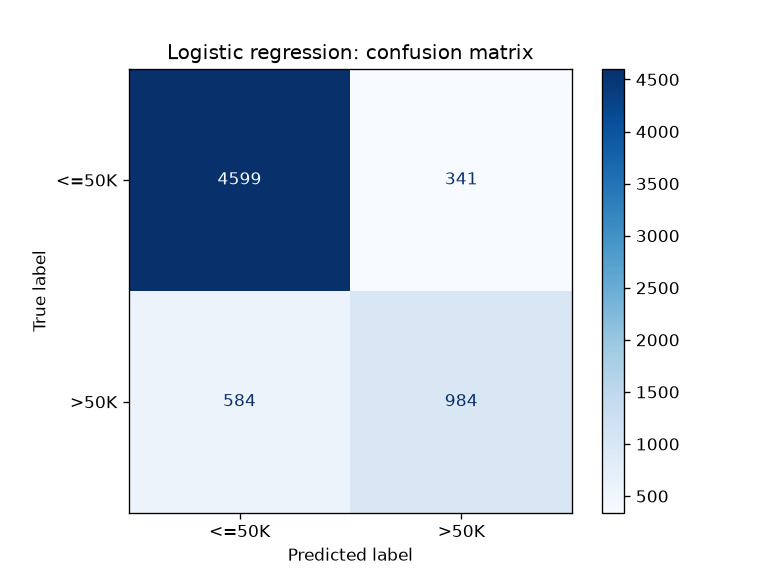
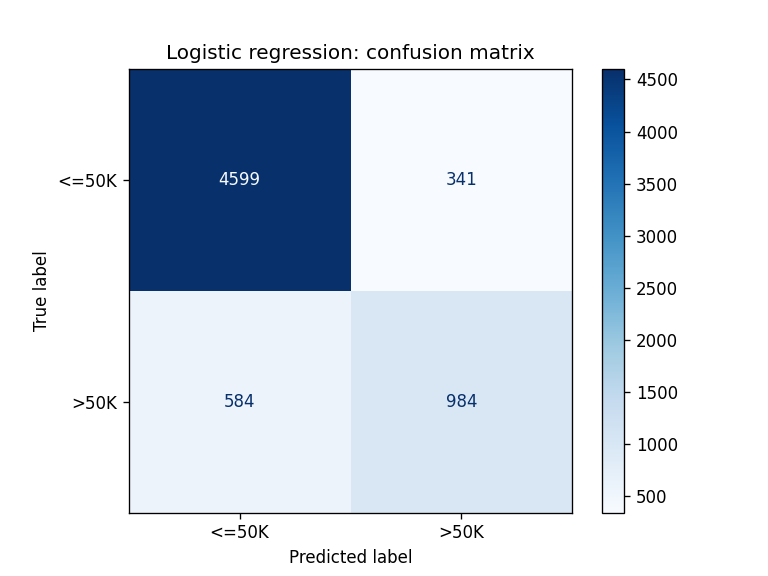
add more testing

diff --git a/tests/test_main.py b/tests/test_main.py
@@ -1,3 +1,11 @@
+"""Tests for src/main.py, grouped by pipeline step.
+
+Nothing here touches the network. `raw_file` is a 6-row sample in the exact format of the UCI
+file (leading spaces, '?' for missing, one duplicate row, a trailing blank line). `big_file`
+is a 40-row variant so the train/test split has enough rows for the model and system tests.
+"""
+
+import pandas as pd
 import pytest
 
 from src import main
@@ -21,11 +29,137 @@ def raw_file(tmp_path):
     return path
 
 
-def test_load_and_clean_agree_between_pandas_and_polars(raw_file):
-    df_pd, df_pl = main.load_pandas(raw_file), main.load_polars(raw_file)
-    assert len(main.clean_pandas(df_pd)) == len(main.clean_polars(df_pl)) == 5  # 6 rows, 1 duplicate
+@pytest.fixture
+def big_file(tmp_path):
+    """40 distinct rows: the 5 unique sample rows repeated with a different age each time."""
+    rows = [line for line in RAW.splitlines() if line][:5]
+    lines = [str(int(r.split(",")[0]) + i) + r[r.index(",") :] for i in range(8) for r in rows]
+    path = tmp_path / "adult_big.data"
+    path.write_text("\n".join(lines) + "\n\n")
+    return path
 
 
-def test_group_by_education(raw_file):
-    grouped = main.group_by_education_pandas(main.clean_pandas(main.load_pandas(raw_file)))
-    assert grouped.set_index("education").loc["HS-grad", "share_high_income"] == pytest.approx(0.5)
+@pytest.fixture
+def df_pd(raw_file):
+    return main.load_pandas(raw_file)
+
+
+@pytest.fixture
+def df_pl(raw_file):
+    return main.load_polars(raw_file)
+
+
+# 1. data loading
+def test_load_pandas_parses_raw_format(df_pd):
+    assert list(df_pd.columns) == main.COLS
+    assert df_pd.shape == (6, 15)
+    assert df_pd["income"].iloc[0] == "<=50K"  # leading space stripped
+    assert df_pd["workclass"].isna().sum() == 1  # '?' became NaN
+    assert df_pd["age"].dtype.kind == "i"
+
+
+def test_load_polars_matches_pandas(df_pd, df_pl):
+    assert df_pl.columns == main.COLS
+    assert df_pl.shape == df_pd.shape  # edge case: trailing blank line is not a row
+    assert df_pl["workclass"].null_count() == 1
+    assert df_pl["age"].to_list() == df_pd["age"].tolist()
+
+
+def test_download_data_uses_cache(raw_file):
+    # edge case: an existing file is returned as-is, the (invalid) url is never fetched
+    assert main.download_data(raw_file, url="http://invalid.invalid/x") == raw_file
+
+
+# 2. preprocessing
+def test_inspect_pandas_counts(df_pd):
+    assert main.inspect_pandas(df_pd, verbose=False) == {
+        "rows": 6, "columns": 15, "missing_values": 1, "duplicate_rows": 1
+    }  # fmt: skip
+
+
+def test_clean_removes_duplicates_in_both_libraries(df_pd, df_pl):
+    assert len(main.clean_pandas(df_pd)) == len(main.clean_polars(df_pl)) == 5
+
+
+def test_clean_is_idempotent(df_pd):
+    # edge case: cleaning already clean data changes nothing
+    once = main.clean_pandas(df_pd)
+    pd.testing.assert_frame_equal(main.clean_pandas(once), once)
+
+
+# 3. filtering and grouping
+def test_filter_overtime(df_pd, df_pl):
+    assert len(main.filter_overtime_pandas(df_pd)) == len(main.filter_overtime_polars(df_pl)) == 3
+    assert len(main.filter_overtime_pandas(df_pd, hours=49)) == 2
+    assert main.filter_overtime_pandas(df_pd, hours=99).empty  # edge case: nobody qualifies
+
+
+def test_group_by_education_pandas(df_pd):
+    grouped = main.group_by_education_pandas(main.clean_pandas(df_pd)).set_index("education")
+    assert grouped.loc["HS-grad", "count"] == 2
+    assert grouped.loc["HS-grad", "share_high_income"] == pytest.approx(0.5)
+    assert grouped.loc["Bachelors", "mean_capital_gain"] == pytest.approx(2174 / 3)
+    assert grouped["share_high_income"].is_monotonic_decreasing
+
+
+def test_group_by_education_polars_equals_pandas(df_pd, df_pl):
+    expected = main.group_by_education_pandas(main.clean_pandas(df_pd))
+    got = main.group_by_education_polars(main.clean_polars(df_pl)).to_pandas()
+    pd.testing.assert_frame_equal(
+        expected.sort_values("education").reset_index(drop=True),
+        got.sort_values("education").reset_index(drop=True),
+        check_dtype=False,
+    )
+
+
+# 4. machine learning
+def test_prepare_features_encodes_target(df_pd):
+    X, y = main.prepare_features(df_pd)
+    assert "income" not in X.columns
+    assert y.tolist() == [0, 0, 0, 1, 1, 1]
+
+
+def test_model_predicts_binary_labels(df_pd):
+    X, y = main.prepare_features(df_pd)
+    predictions = main.build_model().fit(X, y).predict(X)
+    assert len(predictions) == len(X) and set(predictions) <= {0, 1}
+
+
+def test_train_and_evaluate_reports_accuracy(big_file):
+    result = main.train_and_evaluate(main.load_pandas(big_file))
+    assert 0.0 <= result["accuracy"] <= 1.0
+    assert len(result["X_test"]) == 8  # 20 % of 40 rows
+    assert "precision" in result["report"]
+
+
+def test_model_handles_unseen_category(df_pd):
+    # edge case: a category absent from training must not crash prediction
+    X, y = main.prepare_features(df_pd)
+    model = main.build_model().fit(X, y)
+    unseen = X.head(1).assign(native_country="Atlantis")
+    assert model.predict(unseen)[0] in (0, 1)
+
+
+# 5. visualisation
+def test_plots_write_png_files(big_file, tmp_path):
+    df = main.load_pandas(big_file)
+    result = main.train_and_evaluate(df)
+    fig1 = main.plot_income_by_age(df, tmp_path / "a.png")
+    fig2 = main.plot_confusion_matrix(result["model"], result["X_test"], result["y_test"], tmp_path / "b.png")
+    assert fig1.stat().st_size > 0 and fig2.stat().st_size > 0
+
+
+# 7. benchmark
+def test_benchmark_table(raw_file):
+    table = main.benchmark(raw_file, scale=2, repeats=1)
+    assert list(table.columns) == ["operation", "pandas_ms", "polars_ms", "speedup"]
+    assert len(table) == 4 and (table["speedup"] > 0).all()
+
+
+# system test: the whole pipeline end to end
+def test_main_runs_end_to_end(big_file, tmp_path, capsys):
+    main.main(path=big_file, fig_dir=tmp_path / "figs")
+    out = capsys.readouterr().out
+    assert "logistic regression accuracy:" in out and "pandas vs polars" in out
+    assert (tmp_path / "figs" / "income_by_age.png").exists()
+    assert (tmp_path / "figs" / "confusion_matrix.png").exists()

diff --git a/src/main.py b/src/main.py
@@ -179,8 +179,8 @@ def benchmark(path=DATA_FILE, scale=50, repeats=5) -> pd.DataFrame:
     return out.round(1)
 
 
-def main() -> None:
-    path = download_data()
+def main(path=DATA_FILE, fig_dir=FIG_DIR) -> None:
+    path = download_data(path)
     df_pd = load_pandas(path)
     summary = inspect_pandas(df_pd)
     df_pd = clean_pandas(df_pd)
@@ -191,8 +191,8 @@ def main() -> None:
 
     result = train_and_evaluate(df_pd)
     print(f"\nlogistic regression accuracy: {result['accuracy']:.3f}\n{result['report']}")
-    print("saved", plot_income_by_age(df_pd))
-    print("saved", plot_confusion_matrix(result["model"], result["X_test"], result["y_test"]))
+    print("saved", plot_income_by_age(df_pd, fig_dir / "income_by_age.png"))
+    print("saved", plot_confusion_matrix(result["model"], result["X_test"], result["y_test"], fig_dir / "confusion_matrix.png"))
     print("\npandas vs polars (best of 5 runs):\n", benchmark(path).to_string(index=False))
 
 

diff --git a/README.md b/README.md
@@ -10,6 +10,18 @@ Exploratory analysis of the [UCI Adult (Census Income)](https://archive.ics.uci.
 dataset with **pandas**, the same analysis repeated with **polars**, a first
 **logistic regression** model, and a timing comparison between the two libraries.
 
+## Motivation and goal
+
+Income data is a classic tabular problem: mixed numeric and text columns, missing values, an
+imbalanced target, and enough rows to make library speed matter. The goal of this project is to
+practise the full data-engineering loop on it: load and clean the data with two dataframe
+libraries, answer a few questions with filters and group-bys, fit a first model, and make every
+step reproducible with tests, linting, Docker and a CI workflow.
+
+**Results in short:** the share of high earners rises with education level (74 % of doctorates
+vs 16 % of high-school graduates), a logistic regression baseline reaches 85.8 % accuracy, and
+polars is 2 to 40 times faster than pandas on the same operations.
+
 Each row is one person from the 1994 US census. The target column, `income`,
 says whether the person earns more than 50K USD a year.
 
@@ -173,13 +185,32 @@ the fix. It needs the evcxr Rust kernel; outputs are saved so it can be read wit
 
 ## Tests, linting and CI
 
-* `tests/test_main.py` covers every function on a six-row sample that mimics
-  the real file (leading spaces, a `?`, a duplicate row, a trailing blank
-  line). It also checks that the pandas and polars group-by give the same
-  numbers. The tests never download anything.
-* `ruff` checks and formats `src/` and `tests/` (configured in `pyproject.toml`).
-* `.github/workflows/test.yml` runs lint, format check, the tests, and the tests
-  again inside the Docker image on every push and pull request.
+Run everything locally with:
+
+```bash
+make test      # 16 tests with coverage report (97 % of src/main.py)
+make check     # ruff lint + format check + tests
+```
+
+`tests/test_main.py` is grouped by pipeline step: data loading, preprocessing, filter and
+group-by, machine learning, visualisation, benchmark, and one **system test** that runs
+`main()` end to end on a temporary file and checks the printed results and the saved figures.
+Tests use a six-row sample in the exact format of the UCI file (leading spaces, `?` for missing,
+a duplicate row, a trailing blank line) plus a 40-row variant for the model, so nothing needs the
+network. Edge cases include the trailing blank line, an already clean frame, a filter that
+matches nothing, and a category unseen in training.
+
+`.github/workflows/test.yml` runs lint, format check and the tests on every push and pull
+request, then rebuilds the Docker image and runs the tests inside it. The badge at the top of
+this file shows the latest run.
+
+**All tests passing locally**
+
+![all tests passing](figures/local_test.png)
+
+**GitHub Actions run**
+
+![CI passing](figures/ci_test.png)
 
 ## Further reading
 
